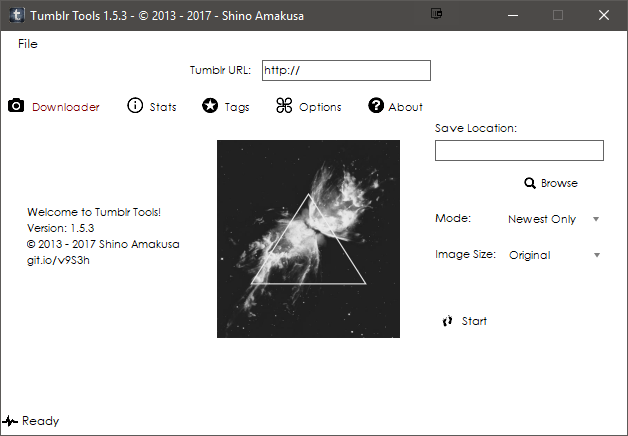
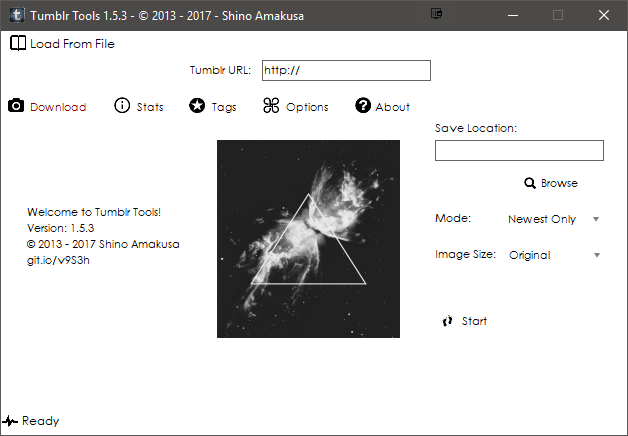
1.5.3: Final Release

diff --git a/Tumblr Tool UI/Form1.Designer.cs b/Tumblr Tool UI/Form1.Designer.cs
@@ -37,9 +37,7 @@ namespace Tumblr_Tool
             this.menuItem_About = new System.Windows.Forms.ToolStripMenuItem();
             this.imageDownloadWorker = new System.ComponentModel.BackgroundWorker();
             this.menu_TopMenu = new System.Windows.Forms.MenuStrip();
-            this.fileToolStripMenuItem = new System.Windows.Forms.ToolStripMenuItem();
-            this.openToolStripMenuItem = new System.Windows.Forms.ToolStripMenuItem();
-            this.saveToolStripMenuItem = new System.Windows.Forms.ToolStripMenuItem();
+            this.menuItem_LoadFromFile = new System.Windows.Forms.ToolStripMenuItem();
             this.imageCrawlWorker = new System.ComponentModel.BackgroundWorker();
             this.imageCrawlWorkerUI = new System.ComponentModel.BackgroundWorker();
             this.status_Strip = new System.Windows.Forms.StatusStrip();
@@ -183,7 +181,7 @@ namespace Tumblr_Tool
             this.menu_TopMenu.BackColor = System.Drawing.Color.White;
             this.menu_TopMenu.Font = new System.Drawing.Font("Century Gothic", 9F);
             this.menu_TopMenu.Items.AddRange(new System.Windows.Forms.ToolStripItem[] {
-            this.fileToolStripMenuItem});
+            this.menuItem_LoadFromFile});
             this.menu_TopMenu.LayoutStyle = System.Windows.Forms.ToolStripLayoutStyle.Flow;
             this.menu_TopMenu.Location = new System.Drawing.Point(0, 0);
             this.menu_TopMenu.Name = "menu_TopMenu";
@@ -194,40 +192,16 @@ namespace Tumblr_Tool
             this.menu_TopMenu.TabIndex = 6;
             this.menu_TopMenu.Text = "topMenu";
             // 
-            // fileToolStripMenuItem
+            // menuItem_LoadFromFile
             // 
-            this.fileToolStripMenuItem.DisplayStyle = System.Windows.Forms.ToolStripItemDisplayStyle.Text;
-            this.fileToolStripMenuItem.DropDownItems.AddRange(new System.Windows.Forms.ToolStripItem[] {
-            this.openToolStripMenuItem,
-            this.saveToolStripMenuItem});
-            this.fileToolStripMenuItem.Image = global::Tumblr_Tool.Properties.Resources.menu;
-            this.fileToolStripMenuItem.Name = "fileToolStripMenuItem";
-            this.fileToolStripMenuItem.Size = new System.Drawing.Size(40, 21);
-            this.fileToolStripMenuItem.Text = "File";
-            this.fileToolStripMenuItem.Paint += new System.Windows.Forms.PaintEventHandler(this.ToolStripMenuItem_Paint);
-            // 
-            // openToolStripMenuItem
-            // 
-            this.openToolStripMenuItem.BackColor = System.Drawing.Color.White;
-            this.openToolStripMenuItem.Image = ((System.Drawing.Image)(resources.GetObject("openToolStripMenuItem.Image")));
-            this.openToolStripMenuItem.ImageAlign = System.Drawing.ContentAlignment.MiddleLeft;
-            this.openToolStripMenuItem.Name = "openToolStripMenuItem";
-            this.openToolStripMenuItem.Size = new System.Drawing.Size(109, 22);
-            this.openToolStripMenuItem.Text = "Open";
-            this.openToolStripMenuItem.ToolTipText = "Open Tumblr Tools Save file";
-            this.openToolStripMenuItem.Click += new System.EventHandler(this.OpenToolStripMenuItem_Click);
-            this.openToolStripMenuItem.Paint += new System.Windows.Forms.PaintEventHandler(this.ToolStripMenuItem_Paint);
-            // 
-            // saveToolStripMenuItem
-            // 
-            this.saveToolStripMenuItem.BackColor = System.Drawing.SystemColors.Menu;
-            this.saveToolStripMenuItem.Enabled = false;
-            this.saveToolStripMenuItem.Name = "saveToolStripMenuItem";
-            this.saveToolStripMenuItem.Size = new System.Drawing.Size(109, 22);
-            this.saveToolStripMenuItem.Text = "Save";
-            this.saveToolStripMenuItem.Visible = false;
-            this.saveToolStripMenuItem.Click += new System.EventHandler(this.SaveToolStripMenuItem_Click);
-            this.saveToolStripMenuItem.Paint += new System.Windows.Forms.PaintEventHandler(this.ToolStripMenuItem_Paint);
+            this.menuItem_LoadFromFile.BackColor = System.Drawing.Color.White;
+            this.menuItem_LoadFromFile.Image = global::Tumblr_Tool.Properties.Resources.open;
+            this.menuItem_LoadFromFile.ImageAlign = System.Drawing.ContentAlignment.MiddleLeft;
+            this.menuItem_LoadFromFile.Name = "menuItem_LoadFromFile";
+            this.menuItem_LoadFromFile.Size = new System.Drawing.Size(121, 21);
+            this.menuItem_LoadFromFile.Text = "Load From File";
+            this.menuItem_LoadFromFile.ToolTipText = "Open Tumblr Tools Save file";
+            this.menuItem_LoadFromFile.Click += new System.EventHandler(this.OpenToolStripMenuItem_Click);
             // 
             // imageCrawlWorker
             // 
@@ -347,7 +321,7 @@ namespace Tumblr_Tool
             this.tabControl_Main.ItemSize = new System.Drawing.Size(0, 26);
             this.tabControl_Main.Location = new System.Drawing.Point(0, 57);
             this.tabControl_Main.Name = "tabControl_Main";
-            this.tabControl_Main.SelectedIndex = 2;
+            this.tabControl_Main.SelectedIndex = 0;
             this.tabControl_Main.Size = new System.Drawing.Size(625, 256);
             this.tabControl_Main.TabBorderColor = System.Drawing.Color.Transparent;
             this.tabControl_Main.TabGradient.ColorEnd = System.Drawing.Color.Transparent;
@@ -384,7 +358,7 @@ namespace Tumblr_Tool
             this.tab_ImageRipper.Name = "tab_ImageRipper";
             this.tab_ImageRipper.Size = new System.Drawing.Size(623, 219);
             this.tab_ImageRipper.TabIndex = 0;
-            this.tab_ImageRipper.Text = "Downloader";
+            this.tab_ImageRipper.Text = "Download";
             this.tab_ImageRipper.Enter += new System.EventHandler(this.TabPage_Enter);
             // 
             // select_Crawler_ImagesSize
@@ -952,7 +926,7 @@ namespace Tumblr_Tool
             // check_Tags_PhotoOnly
             // 
             this.check_Tags_PhotoOnly.FlatStyle = System.Windows.Forms.FlatStyle.Flat;
-            this.check_Tags_PhotoOnly.Location = new System.Drawing.Point(94, 143);
+            this.check_Tags_PhotoOnly.Location = new System.Drawing.Point(94, 155);
             this.check_Tags_PhotoOnly.Name = "check_Tags_PhotoOnly";
             this.check_Tags_PhotoOnly.Size = new System.Drawing.Size(85, 20);
             this.check_Tags_PhotoOnly.TabIndex = 10;
@@ -966,7 +940,7 @@ namespace Tumblr_Tool
             this.btn_TagScanner_SaveAsFile.FlatStyle = System.Windows.Forms.FlatStyle.Flat;
             this.btn_TagScanner_SaveAsFile.ImageKey = "browse.ico";
             this.btn_TagScanner_SaveAsFile.ImageList = this.iconsList;
-            this.btn_TagScanner_SaveAsFile.Location = new System.Drawing.Point(188, 173);
+            this.btn_TagScanner_SaveAsFile.Location = new System.Drawing.Point(188, 192);
             this.btn_TagScanner_SaveAsFile.Name = "btn_TagScanner_SaveAsFile";
             this.btn_TagScanner_SaveAsFile.Size = new System.Drawing.Size(112, 23);
             this.btn_TagScanner_SaveAsFile.TabIndex = 9;
@@ -986,10 +960,10 @@ namespace Tumblr_Tool
             this.list_TagScanner_TagList.FormattingEnabled = true;
             this.list_TagScanner_TagList.ItemHeight = 16;
             this.list_TagScanner_TagList.Items.AddRange(new object[] {
-            "Tag List is empty ... "});
-            this.list_TagScanner_TagList.Location = new System.Drawing.Point(306, 25);
+            "Click Get Tags to start ..."});
+            this.list_TagScanner_TagList.Location = new System.Drawing.Point(306, 9);
             this.list_TagScanner_TagList.Name = "list_TagScanner_TagList";
-            this.list_TagScanner_TagList.Size = new System.Drawing.Size(296, 192);
+            this.list_TagScanner_TagList.Size = new System.Drawing.Size(296, 208);
             this.list_TagScanner_TagList.Sorted = true;
             this.list_TagScanner_TagList.TabIndex = 8;
             this.list_TagScanner_TagList.TabStop = false;
@@ -998,7 +972,7 @@ namespace Tumblr_Tool
             // lbl_TagScanner_TagCount
             // 
             this.lbl_TagScanner_TagCount.Font = new System.Drawing.Font("Century Gothic", 27.75F, System.Drawing.FontStyle.Bold, System.Drawing.GraphicsUnit.Point, ((byte)(0)));
-            this.lbl_TagScanner_TagCount.Location = new System.Drawing.Point(47, 22);
+            this.lbl_TagScanner_TagCount.Location = new System.Drawing.Point(47, 34);
             this.lbl_TagScanner_TagCount.Name = "lbl_TagScanner_TagCount";
             this.lbl_TagScanner_TagCount.Size = new System.Drawing.Size(189, 46);
             this.lbl_TagScanner_TagCount.TabIndex = 7;
@@ -1008,7 +982,7 @@ namespace Tumblr_Tool
             // lbl_TagScanner_NumberOfTags
             // 
             this.lbl_TagScanner_NumberOfTags.Font = new System.Drawing.Font("Century Gothic", 14.25F, System.Drawing.FontStyle.Bold, System.Drawing.GraphicsUnit.Point, ((byte)(0)));
-            this.lbl_TagScanner_NumberOfTags.Location = new System.Drawing.Point(47, 68);
+            this.lbl_TagScanner_NumberOfTags.Location = new System.Drawing.Point(47, 80);
             this.lbl_TagScanner_NumberOfTags.Name = "lbl_TagScanner_NumberOfTags";
             this.lbl_TagScanner_NumberOfTags.Size = new System.Drawing.Size(189, 29);
             this.lbl_TagScanner_NumberOfTags.TabIndex = 6;
@@ -1021,7 +995,7 @@ namespace Tumblr_Tool
             this.btn_TagScanner_Stop.FlatStyle = System.Windows.Forms.FlatStyle.Flat;
             this.btn_TagScanner_Stop.ImageKey = "browse.ico";
             this.btn_TagScanner_Stop.ImageList = this.iconsList;
-            this.btn_TagScanner_Stop.Location = new System.Drawing.Point(147, 111);
+            this.btn_TagScanner_Stop.Location = new System.Drawing.Point(147, 123);
             this.btn_TagScanner_Stop.Name = "btn_TagScanner_Stop";
             this.btn_TagScanner_Stop.Size = new System.Drawing.Size(92, 26);
             this.btn_TagScanner_Stop.TabIndex = 5;
@@ -1038,7 +1012,7 @@ namespace Tumblr_Tool
             this.btn_TagScanner_Start.FlatStyle = System.Windows.Forms.FlatStyle.Flat;
             this.btn_TagScanner_Start.ImageKey = "browse.ico";
             this.btn_TagScanner_Start.ImageList = this.iconsList;
-            this.btn_TagScanner_Start.Location = new System.Drawing.Point(39, 111);
+            this.btn_TagScanner_Start.Location = new System.Drawing.Point(39, 123);
             this.btn_TagScanner_Start.Name = "btn_TagScanner_Start";
             this.btn_TagScanner_Start.Size = new System.Drawing.Size(92, 26);
             this.btn_TagScanner_Start.TabIndex = 3;
@@ -1436,9 +1410,6 @@ namespace Tumblr_Tool
         private System.ComponentModel.BackgroundWorker imageDownloadWorker;
         private ColorProgressBar bar_Progress;
         private System.Windows.Forms.MenuStrip menu_TopMenu;
-        private System.Windows.Forms.ToolStripMenuItem fileToolStripMenuItem;
-        private System.Windows.Forms.ToolStripMenuItem openToolStripMenuItem;
-        private System.Windows.Forms.ToolStripMenuItem saveToolStripMenuItem;
         private System.ComponentModel.BackgroundWorker imageCrawlWorker;
         private System.ComponentModel.BackgroundWorker imageCrawlWorkerUI;
         private System.Windows.Forms.StatusStrip status_Strip;
@@ -1512,6 +1483,7 @@ namespace Tumblr_Tool
         private System.Windows.Forms.Button btn_TagScanner_SaveAsFile;
         private System.ComponentModel.BackgroundWorker tagListSaveWorker;
         private System.Windows.Forms.CheckBox check_Tags_PhotoOnly;
+        private System.Windows.Forms.ToolStripMenuItem menuItem_LoadFromFile;
     }
 }
 

diff --git a/Tumblr Tool UI/Form1.cs b/Tumblr Tool UI/Form1.cs
@@ -1204,7 +1204,7 @@ namespace Tumblr_Tool
             btn_Crawler_Stop.Visible = !state;
             select_Crawler_Mode.Enabled = state;
             select_Crawler_ImagesSize.Enabled = state;
-            fileToolStripMenuItem.Enabled = state;
+            menuItem_LoadFromFile.Enabled = state;
             txt_TumblrURL.Enabled = state;
             txt_Crawler_SaveLocation.Enabled = state;
             DisableOtherTabs = !state;
@@ -1223,7 +1223,7 @@ namespace Tumblr_Tool
         private void EnableUI_Stats(bool state)
         {
             btn_Stats_Start.Enabled = state;
-            fileToolStripMenuItem.Enabled = state;
+            menuItem_LoadFromFile.Enabled = state;
             txt_TumblrURL.Enabled = state;
             DisableOtherTabs = !state;
         }
